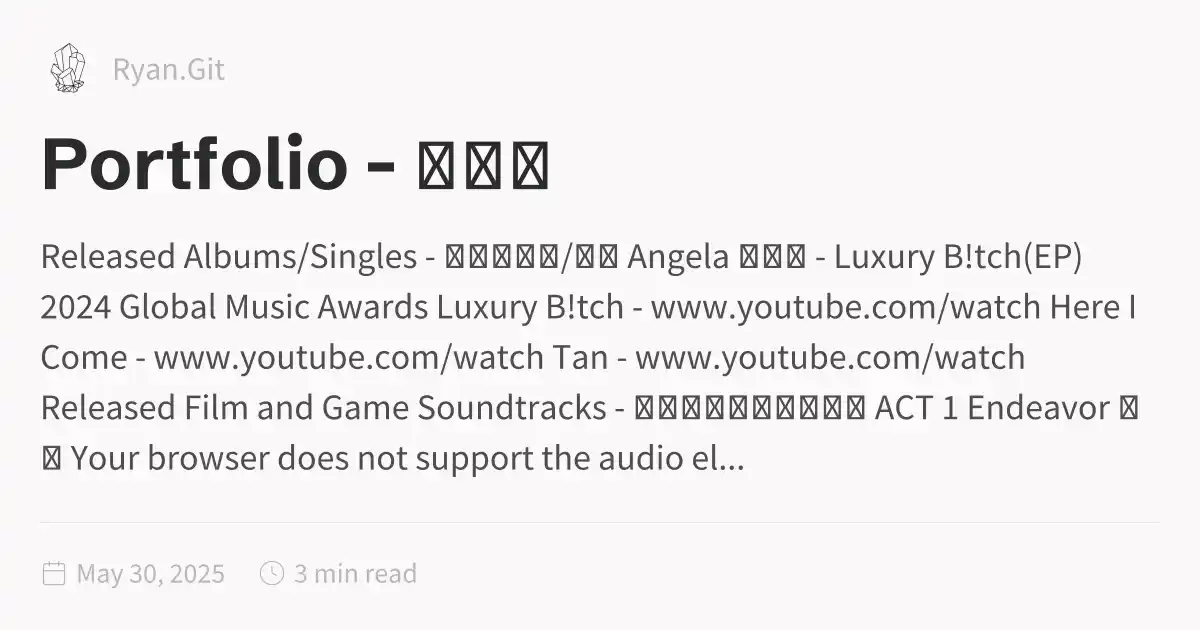
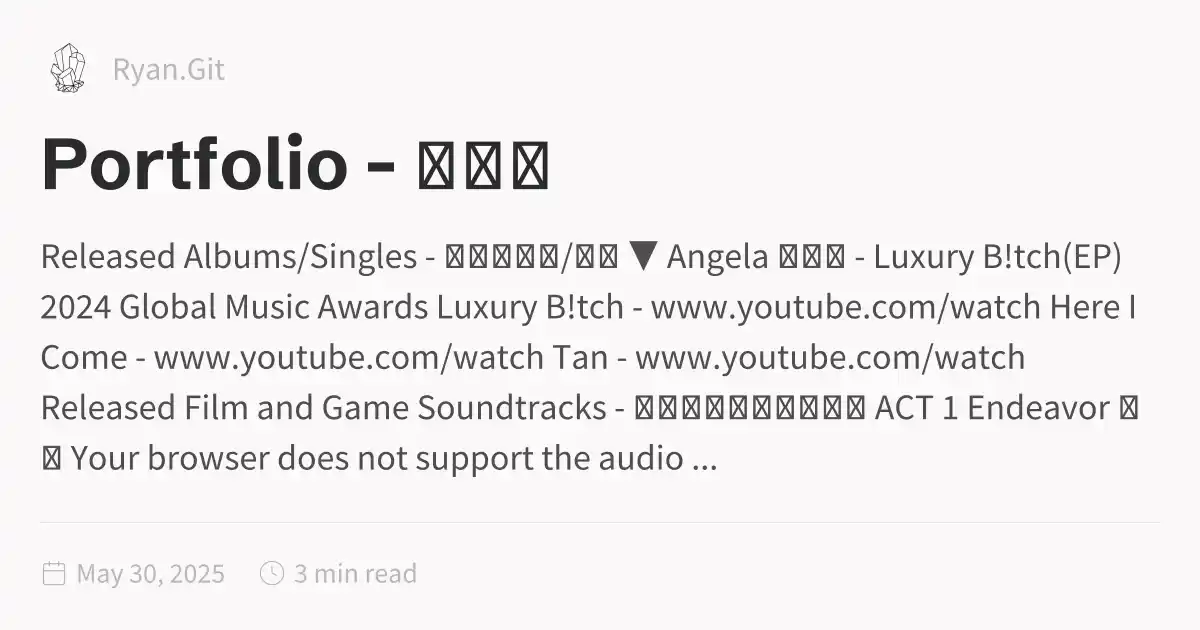
Deploy updated site

Changed region(s): [[0.5242, 0.3619, 0.925, 0.4524], [0.555, 0.7238, 0.6167, 0.754]]

diff --git a/Portfolio---作品集.html b/Portfolio---作品集.html
@@ -1,5 +1,5 @@
 <!DOCTYPE html>
-<html lang="en"><head><title>Portfolio - 作品集</title><meta charset="utf-8"/><link rel="preconnect" href="https://fonts.googleapis.com"/><link rel="preconnect" href="https://fonts.gstatic.com"/><link rel="stylesheet" href="https://fonts.googleapis.com/css2?family=Schibsted Grotesk:wght@400;700&amp;family=Source Sans Pro:ital,wght@0,400;0,600;1,400;1,600&amp;family=IBM Plex Mono:wght@400;600&amp;display=swap"/><link rel="preconnect" href="https://cdnjs.cloudflare.com" crossorigin="anonymous"/><meta name="viewport" content="width=device-width, initial-scale=1.0"/><meta name="og:site_name" content="Ryan.Git"/><meta property="og:title" content="Portfolio - 作品集"/><meta property="og:type" content="website"/><meta name="twitter:card" content="summary_large_image"/><meta name="twitter:title" content="Portfolio - 作品集"/><meta name="twitter:description" content="Released Albums/Singles - 已發行專輯/單曲 Angela 曾妃攸 - Luxury B!tch(EP) 2024 Global Music Awards Luxury B!tch - www.youtube.com/watch Here I Come - www.youtube.com/watch Tan - www.youtube.com/watch Released Film and Game Soundtracks - 已發行之影視遊戲配樂 ACT 1 Endeavor 努力 Your browser does not support the audio el..."/><meta property="og:description" content="Released Albums/Singles - 已發行專輯/單曲 Angela 曾妃攸 - Luxury B!tch(EP) 2024 Global Music Awards Luxury B!tch - www.youtube.com/watch Here I Come - www.youtube.com/watch Tan - www.youtube.com/watch Released Film and Game Soundtracks - 已發行之影視遊戲配樂 ACT 1 Endeavor 努力 Your browser does not support the audio el..."/><meta property="og:image:alt" content="Released Albums/Singles - 已發行專輯/單曲 Angela 曾妃攸 - Luxury B!tch(EP) 2024 Global Music Awards Luxury B!tch - www.youtube.com/watch Here I Come - www.youtube.com/watch Tan - www.youtube.com/watch Released Film and Game Soundtracks - 已發行之影視遊戲配樂 ACT 1 Endeavor 努力 Your browser does not support the audio el..."/><meta property="twitter:domain" content="Ryan.Git"/><meta property="og:url" content="https://ryan.git/Portfolio---作品集"/><meta property="twitter:url" content="https://ryan.git/Portfolio---作品集"/><link rel="icon" href="./static/icon.png"/><meta name="description" content="Released Albums/Singles - 已發行專輯/單曲 Angela 曾妃攸 - Luxury B!tch(EP) 2024 Global Music Awards Luxury B!tch - www.youtube.com/watch Here I Come - www.youtube.com/watch Tan - www.youtube.com/watch Released Film and Game Soundtracks - 已發行之影視遊戲配樂 ACT 1 Endeavor 努力 Your browser does not support the audio el..."/><meta name="generator" content="Quartz"/><link href="./index.css" rel="stylesheet" type="text/css" spa-preserve/><style>.expand-button {
+<html lang="en"><head><title>Portfolio - 作品集</title><meta charset="utf-8"/><link rel="preconnect" href="https://fonts.googleapis.com"/><link rel="preconnect" href="https://fonts.gstatic.com"/><link rel="stylesheet" href="https://fonts.googleapis.com/css2?family=Schibsted Grotesk:wght@400;700&amp;family=Source Sans Pro:ital,wght@0,400;0,600;1,400;1,600&amp;family=IBM Plex Mono:wght@400;600&amp;display=swap"/><link rel="preconnect" href="https://cdnjs.cloudflare.com" crossorigin="anonymous"/><meta name="viewport" content="width=device-width, initial-scale=1.0"/><meta name="og:site_name" content="Ryan.Git"/><meta property="og:title" content="Portfolio - 作品集"/><meta property="og:type" content="website"/><meta name="twitter:card" content="summary_large_image"/><meta name="twitter:title" content="Portfolio - 作品集"/><meta name="twitter:description" content="Released Albums/Singles - 已發行專輯/單曲 ▼ Angela 曾妃攸 - Luxury B!tch(EP) 2024 Global Music Awards Luxury B!tch - www.youtube.com/watch Here I Come - www.youtube.com/watch Tan - www.youtube.com/watch Released Film and Game Soundtracks - 已發行之影視遊戲配樂 ACT 1 Endeavor 努力 Your browser does not support the audio ..."/><meta property="og:description" content="Released Albums/Singles - 已發行專輯/單曲 ▼ Angela 曾妃攸 - Luxury B!tch(EP) 2024 Global Music Awards Luxury B!tch - www.youtube.com/watch Here I Come - www.youtube.com/watch Tan - www.youtube.com/watch Released Film and Game Soundtracks - 已發行之影視遊戲配樂 ACT 1 Endeavor 努力 Your browser does not support the audio ..."/><meta property="og:image:alt" content="Released Albums/Singles - 已發行專輯/單曲 ▼ Angela 曾妃攸 - Luxury B!tch(EP) 2024 Global Music Awards Luxury B!tch - www.youtube.com/watch Here I Come - www.youtube.com/watch Tan - www.youtube.com/watch Released Film and Game Soundtracks - 已發行之影視遊戲配樂 ACT 1 Endeavor 努力 Your browser does not support the audio ..."/><meta property="twitter:domain" content="Ryan.Git"/><meta property="og:url" content="https://ryan.git/Portfolio---作品集"/><meta property="twitter:url" content="https://ryan.git/Portfolio---作品集"/><link rel="icon" href="./static/icon.png"/><meta name="description" content="Released Albums/Singles - 已發行專輯/單曲 ▼ Angela 曾妃攸 - Luxury B!tch(EP) 2024 Global Music Awards Luxury B!tch - www.youtube.com/watch Here I Come - www.youtube.com/watch Tan - www.youtube.com/watch Released Film and Game Soundtracks - 已發行之影視遊戲配樂 ACT 1 Endeavor 努力 Your browser does not support the audio ..."/><meta name="generator" content="Quartz"/><link href="./index.css" rel="stylesheet" type="text/css" spa-preserve/><style>.expand-button {
   position: absolute;
   display: flex;
   float: right;
@@ -116,17 +116,20 @@ pre:hover > .expand-button {
   padding: 0 12px;
   font-size: 14px;
 }
[2 lines of base64/hex data omitted]
 <h2 id="released-albumssingles---已發行專輯單曲">Released Albums/Singles - 已發行專輯/單曲<a role="anchor" aria-hidden="true" tabindex="-1" data-no-popover="true" href="#released-albumssingles---已發行專輯單曲" class="internal"><svg width="18" height="18" viewBox="0 0 24 24" fill="none" stroke="currentColor" stroke-width="2" stroke-linecap="round" stroke-linejoin="round"><path d="M10 13a5 5 0 0 0 7.54.54l3-3a5 5 0 0 0-7.07-7.07l-1.72 1.71"></path><path d="M14 11a5 5 0 0 0-7.54-.54l-3 3a5 5 0 0 0 7.07 7.07l1.71-1.71"></path></svg></a></h2>
 <details>
- <summary style="font-size:1.5em;font-weight:bold;">Angela 曾妃攸 - Luxury B!tch(EP)</summary>
-  <div style="text-align:center;">
-2024 Global Music Awards 
-Luxury B!tch - https://www.youtube.com/watch?v=59ubI0dUuvM<br/>
-Here I Come - https://www.youtube.com/watch?v=g6Ts4djaQEA<br/>
-Tan - https://www.youtube.com/watch?v=v9j_55vB6DI<br/>
+<div style="text-align:center;">
+  <details style="text-align:center;">
+    <summary style="font-size:1.5em;font-weight:bold;">▼ Angela 曾妃攸 - Luxury B!tch(EP)</summary>
+    <div style="text-align:center;">
+      2024 Global Music Awards<br/>
+      Luxury B!tch - <a href="https://www.youtube.com/watch?v=59ubl0dUuvM" target="_blank" class="external">https://www.youtube.com/watch?v=59ubl0dUuvM<svg aria-hidden="true" class="external-icon" style="max-width:0.8em;max-height:0.8em;" viewBox="0 0 512 512"><path d="M320 0H288V64h32 82.7L201.4 265.4 178.7 288 224 333.3l22.6-22.6L448 109.3V192v32h64V192 32 0H480 320zM32 32H0V64 480v32H32 456h32V480 352 320H424v32 96H64V96h96 32V32H160 32z"></path></svg></a><br/>
+      Here I Come - <a href="https://www.youtube.com/watch?v=g6Ts4djaQEA" target="_blank" class="external">https://www.youtube.com/watch?v=g6Ts4djaQEA<svg aria-hidden="true" class="external-icon" style="max-width:0.8em;max-height:0.8em;" viewBox="0 0 512 512"><path d="M320 0H288V64h32 82.7L201.4 265.4 178.7 288 224 333.3l22.6-22.6L448 109.3V192v32h64V192 32 0H480 320zM32 32H0V64 480v32H32 456h32V480 352 320H424v32 96H64V96h96 32V32H160 32z"></path></svg></a><br/>
+      Tan - <a href="https://www.youtube.com/watch?v=v9j_55vB6DI" target="_blank" class="external">https://www.youtube.com/watch?v=v9j_55vB6DI<svg aria-hidden="true" class="external-icon" style="max-width:0.8em;max-height:0.8em;" viewBox="0 0 512 512"><path d="M320 0H288V64h32 82.7L201.4 265.4 178.7 288 224 333.3l22.6-22.6L448 109.3V192v32h64V192 32 0H480 320zM32 32H0V64 480v32H32 456h32V480 352 320H424v32 96H64V96h96 32V32H160 32z"></path></svg></a>
+    </div>
+  </details>
 </div>
-<details>
 <h2 id="released-film-and-game-soundtracks---已發行之影視遊戲配樂">Released Film and Game Soundtracks - 已發行之影視遊戲配樂<a role="anchor" aria-hidden="true" tabindex="-1" data-no-popover="true" href="#released-film-and-game-soundtracks---已發行之影視遊戲配樂" class="internal"><svg width="18" height="18" viewBox="0 0 24 24" fill="none" stroke="currentColor" stroke-width="2" stroke-linecap="round" stroke-linejoin="round"><path d="M10 13a5 5 0 0 0 7.54.54l3-3a5 5 0 0 0-7.07-7.07l-1.72 1.71"></path><path d="M14 11a5 5 0 0 0-7.54-.54l-3 3a5 5 0 0 0 7.07 7.07l1.71-1.71"></path></svg></a></h2>
 <p>ACT 1 Endeavor 努力
 <audio controls>
@@ -253,7 +256,7 @@ Your browser does not support the audio element.
 <source src="audio/XL-Ripples-Inside.mp3" type="audio/mpeg"/>
 Your browser does not support the audio element.
 </audio></p>
-</details></details></div></article><hr/><div class="page-footer"></div></div><div class="right sidebar"><div class="graph"><h3>Graph View</h3><div class="graph-outer"><div class="graph-container" data-cfg="{&quot;drag&quot;:true,&quot;zoom&quot;:true,&quot;depth&quot;:1,&quot;scale&quot;:1.1,&quot;repelForce&quot;:0.5,&quot;centerForce&quot;:0.3,&quot;linkDistance&quot;:30,&quot;fontSize&quot;:0.6,&quot;opacityScale&quot;:1,&quot;showTags&quot;:true,&quot;removeTags&quot;:[],&quot;focusOnHover&quot;:false,&quot;enableRadial&quot;:false}"></div><button class="global-graph-icon" aria-label="Global Graph"><svg version="1.1" xmlns="http://www.w3.org/2000/svg" xmlns:xlink="http://www.w3.org/1999/xlink" x="0px" y="0px" viewBox="0 0 55 55" fill="currentColor" xml:space="preserve"><path d="M49,0c-3.309,0-6,2.691-6,6c0,1.035,0.263,2.009,0.726,2.86l-9.829,9.829C32.542,17.634,30.846,17,29,17
+</details></div></article><hr/><div class="page-footer"></div></div><div class="right sidebar"><div class="graph"><h3>Graph View</h3><div class="graph-outer"><div class="graph-container" data-cfg="{&quot;drag&quot;:true,&quot;zoom&quot;:true,&quot;depth&quot;:1,&quot;scale&quot;:1.1,&quot;repelForce&quot;:0.5,&quot;centerForce&quot;:0.3,&quot;linkDistance&quot;:30,&quot;fontSize&quot;:0.6,&quot;opacityScale&quot;:1,&quot;showTags&quot;:true,&quot;removeTags&quot;:[],&quot;focusOnHover&quot;:false,&quot;enableRadial&quot;:false}"></div><button class="global-graph-icon" aria-label="Global Graph"><svg version="1.1" xmlns="http://www.w3.org/2000/svg" xmlns:xlink="http://www.w3.org/1999/xlink" x="0px" y="0px" viewBox="0 0 55 55" fill="currentColor" xml:space="preserve"><path d="M49,0c-3.309,0-6,2.691-6,6c0,1.035,0.263,2.009,0.726,2.86l-9.829,9.829C32.542,17.634,30.846,17,29,17
                 s-3.542,0.634-4.898,1.688l-7.669-7.669C16.785,10.424,17,9.74,17,9c0-2.206-1.794-4-4-4S9,6.794,9,9s1.794,4,4,4
                 c0.74,0,1.424-0.215,2.019-0.567l7.669,7.669C21.634,21.458,21,23.154,21,25s0.634,3.542,1.688,4.897L10.024,42.562
                 C8.958,41.595,7.549,41,6,41c-3.309,0-6,2.691-6,6s2.691,6,6,6s6-2.691,6-6c0-1.035-0.263-2.009-0.726-2.86l12.829-12.829
